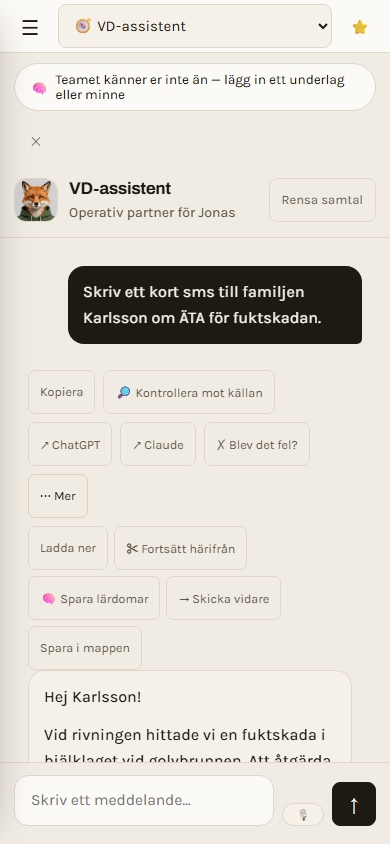
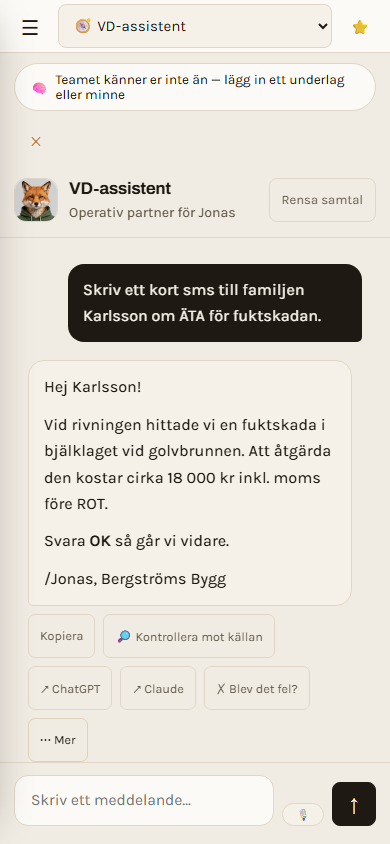
BF3/PR3: /prompts/* svarar 404 utat; bygget laser dem via env.ASSETS

Changed region(s): [[0.0923, 0.3081, 0.8615, 0.9242], [0.6769, 0.8009, 0.7692, 0.8318], [0.8923, 0.3081, 0.9231, 0.3389]]

diff --git a/functions/prompts/[[path]].js b/functions/prompts/[[path]].js
@@ -1,0 +1,15 @@
+// BF3/PR3 (2026-09-26): generatorns prompter är inte publika.
+//
+// Filerna i prompts/ måste ligga i dist/, för /api/ai läser dem via
+// env.ASSETS (functions/api/_build.js). Men de är receptet — research.md är
+// nyckelsteget enligt CLAUDE.md — och låg öppet: `curl …/prompts/shared/
+// research.md` gav 200 och 17 807 byte klartext. Den här Functionen svarar 404
+// utåt. env.ASSETS.fetch går förbi Functions-routingen och når fortfarande
+// filen — verifierat i drift med ett riktigt byggsteg samma dag.
+//
+// OBS: reservvägen i _build.js (självhämtning via den publika adressen när
+// ASSETS saknas) stängs samtidigt. Det är avsiktligt: den vägen fanns för att
+// ASSETS inte syntes i emulatorn, och i drift bär ASSETS.
+export function onRequest() {
+  return new Response("Hittades inte", { status: 404, headers: { "content-type": "text/plain; charset=utf-8", "cache-control": "no-store" } });
+}
